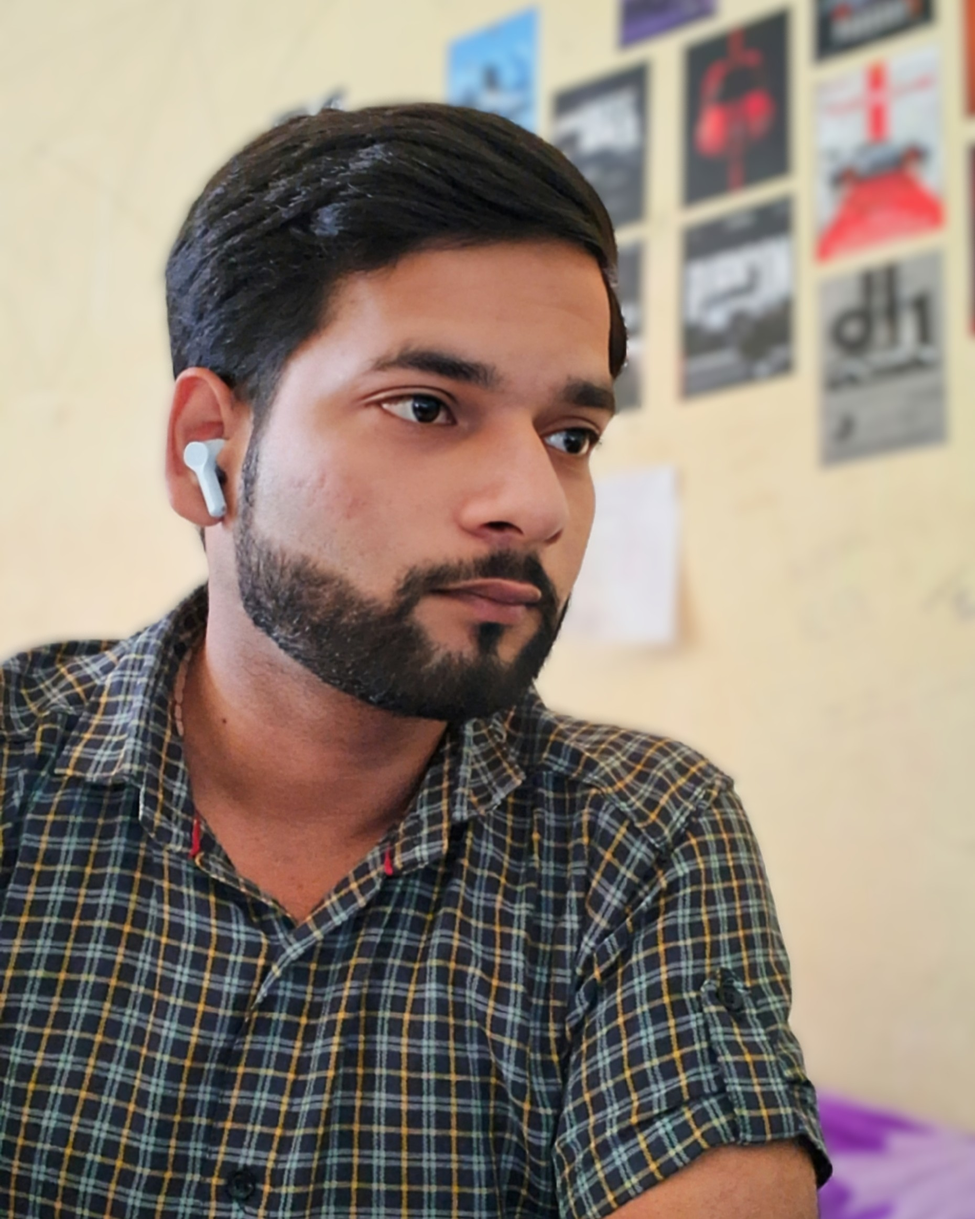
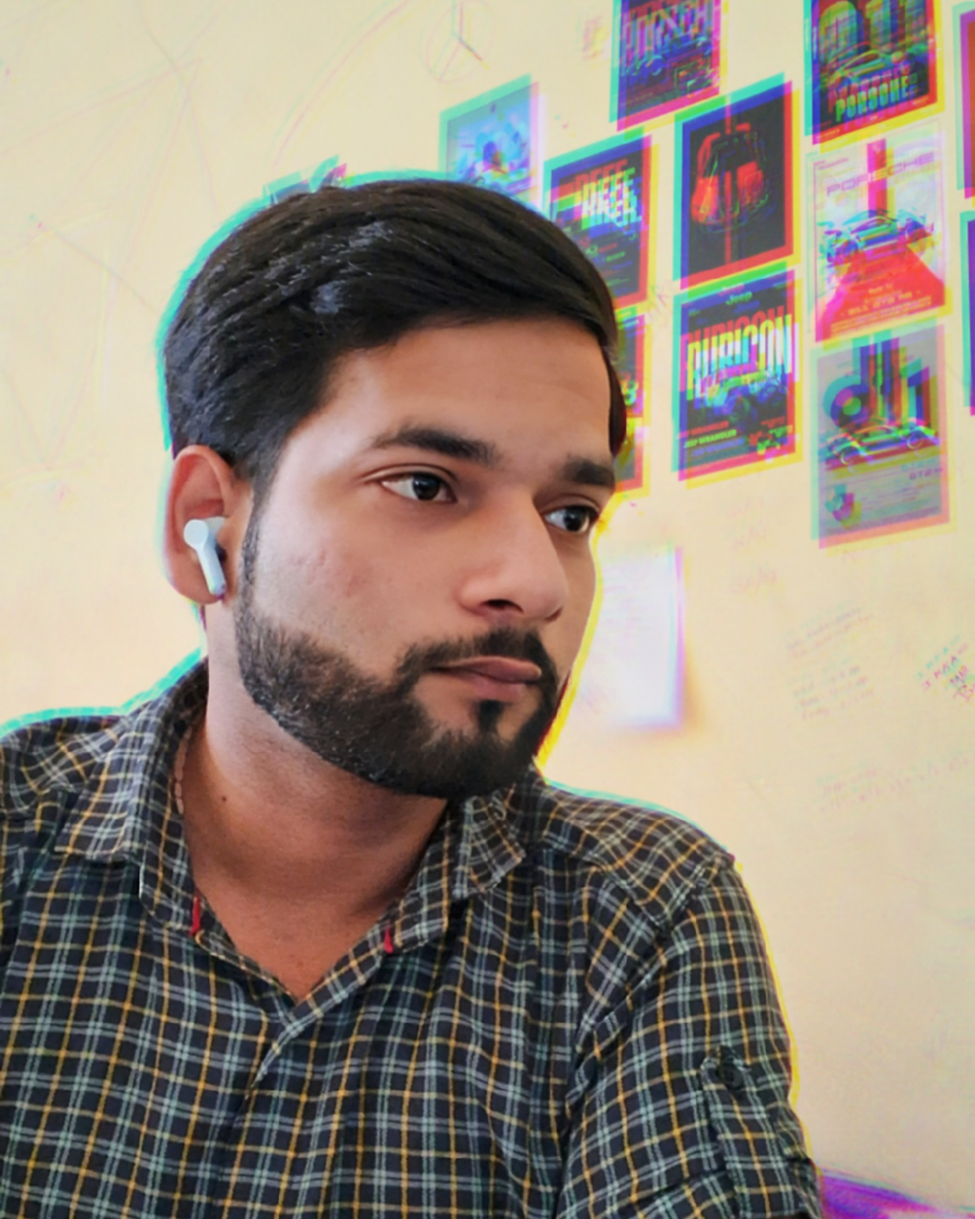
added new elements

diff --git a/index.html b/index.html
@@ -157,7 +157,7 @@
 
 
       <div class="avatar">
-        <img src="extra img\OSCI-Badge-Pandey.png" alt="Avatar" class="avatar" />
+        <img src="extra img\OSCI-Badge-Pandey Adarsh (1).png" alt="Avatar" class="avatar" />
       </div>
     </div>
 
@@ -474,7 +474,7 @@
     </div>
 
     <div class="icon-item">
-      <img src="skills images\react logo.png" alt="Node.js" class="iconimg">
+      <img src="skills images\node.png" alt="Node.js" class="iconimg">
       <span class="label">Node.js</span>
     </div>
 
@@ -494,12 +494,12 @@
     </div>
 
     <div class="icon-item">
-      <img src="skills images\sql  logo.png" alt="SQLite3" class="iconimg">
+      <img src="skills images\SQLite3.jpeg" alt="SQLite3" class="iconimg">
       <span class="label">SQLite3</span>
     </div>
 
     <div class="icon-item">
-      <img src="skills images\sql  logo.png" alt="Oracle" class="iconimg">
+      <img src="skills images\Oracle.png" alt="Oracle" class="iconimg">
       <span class="label">Oracle</span>
     </div>
 
@@ -557,29 +557,29 @@
       <img src="skills images\seo.png" alt="SEO" class="iconimg">
       <span class="label">Search Engine Optimization</span>
     </div>
-    
+
     <div class="icon-item">
-      <img src="skills images\banner.jpeg" alt="Data Structures & Algorithms" class="iconimg">
+      <img src="skills images\cource works.jpg" alt="DSA" class="iconimg">
       <span class="label">Data Structures & Algorithms</span>
     </div>
 
     <div class="icon-item">
-      <img src="skills images\banner.jpeg" alt="Database Management Systems" class="iconimg">
+      <img src="skills images\cource works.jpg" alt="DBMS" class="iconimg">
       <span class="label">Database Management Systems</span>
     </div>
 
     <div class="icon-item">
-      <img src="skills images\banner.jpeg" alt="Operating Systems" class="iconimg">
+      <img src="skills images\cource works.jpg" alt="OS" class="iconimg">
       <span class="label">Operating Systems</span>
     </div>
 
     <div class="icon-item">
-      <img src="skills images\banner.jpeg" alt="Object-Oriented Programming" class="iconimg">
+      <img src="skills images\cource works.jpg" alt="OOP" class="iconimg">
       <span class="label">Object-Oriented Programming</span>
     </div>
 
     <div class="icon-item">
-      <img src="skills images\banner.jpeg" alt="Computer Networks" class="iconimg">
+      <img src="skills images\cource works.jpg" alt="CN" class="iconimg">
       <span class="label">Computer Networks</span>
     </div>
 

diff --git a/css/style.css b/css/style.css
@@ -1818,7 +1818,7 @@ p1 {
   color: #ffffff;
   text-transform: uppercase;
   letter-spacing: 0.5px;
-  margin-bottom: 0.2rem;
+  margin-bottom: 0.5rem;
 }
 
 @keyframes glow {
